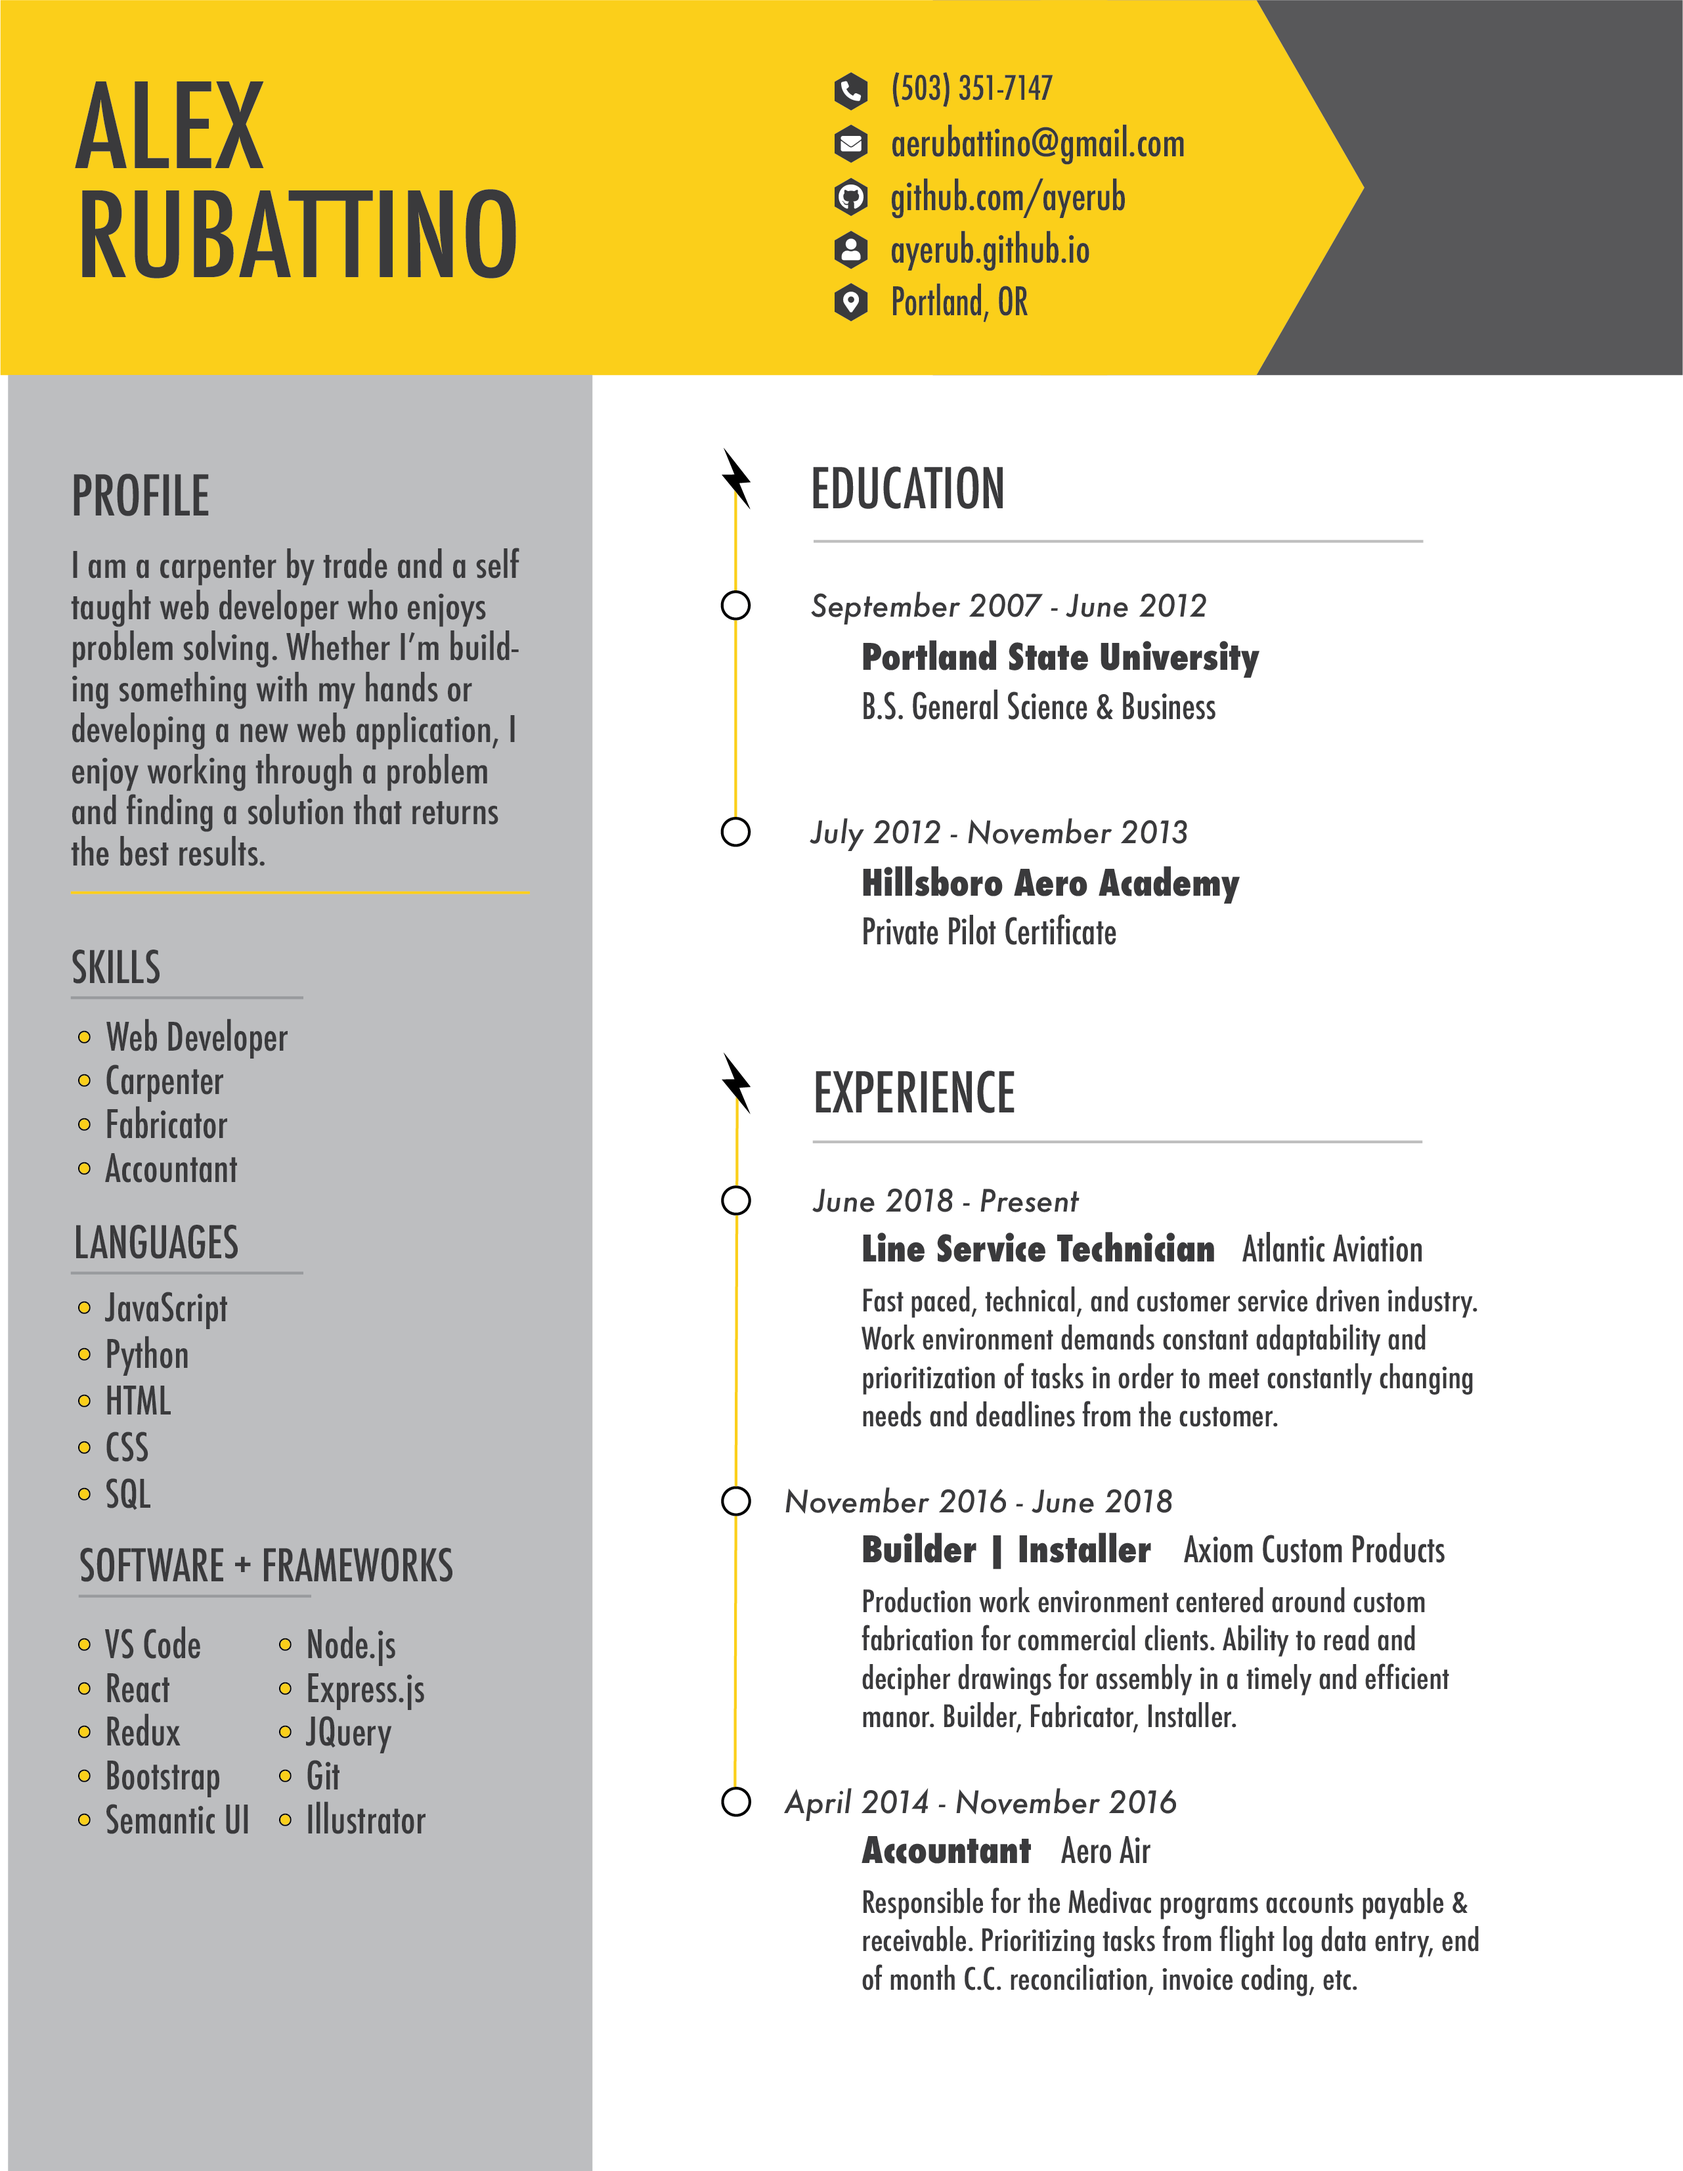
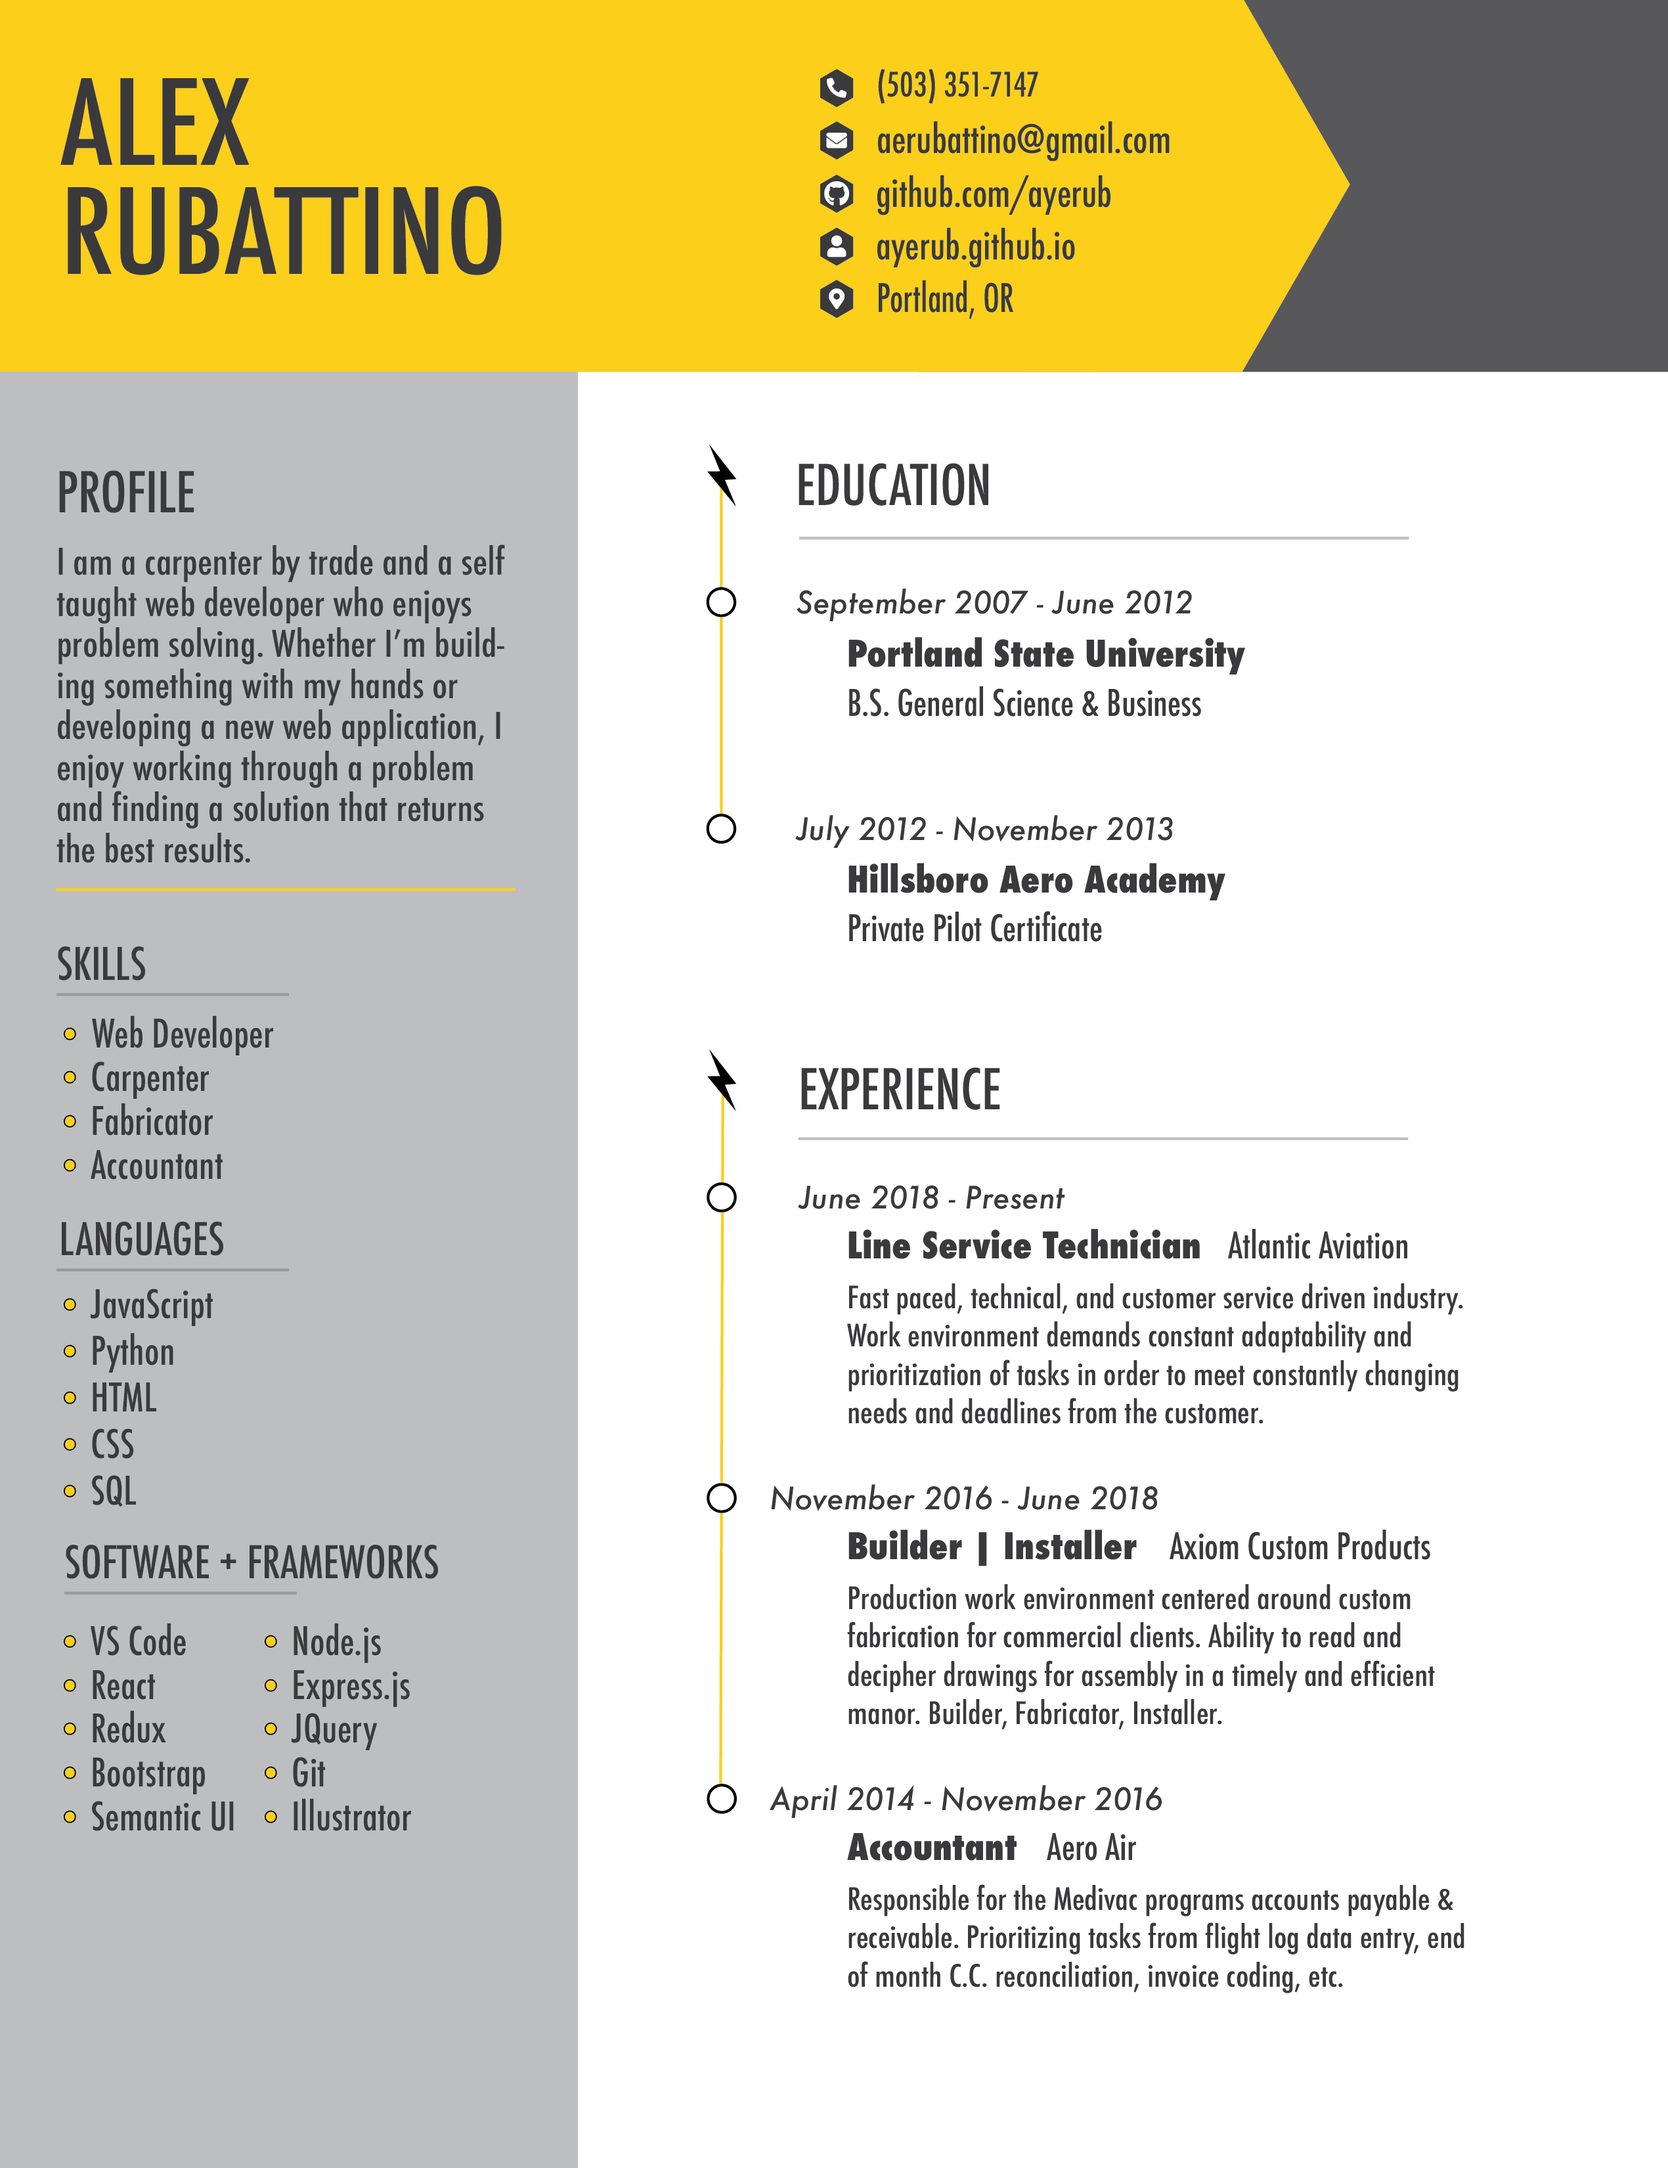
resume update (file fix)

diff --git a/index.html b/index.html
@@ -38,7 +38,7 @@
             <h1>hey! I'm <span class="third-color">Alex Rubattino</span>.</h1>
           </div>
           <div class="about-info">
-            <p>I'm a <span class="second-color">Web Developer</span> and <span class="second-color">Data Analyst</span>,</p>
+            <p>I'm a <span class="second-color">Web Developer</span> and <span class="second-color">Woodworker</span>,</p>
             <p>living in Portland, OR.</p>
           </div>
           <div class="bio">
@@ -102,7 +102,7 @@
             <p><a href="Alex_Resume.pdf" download="Alex_Resume.pdf"><i class="fas fa-download"></i>Download Resume</a></p>
           </div>
           <div class="res-img">
-            <img src="img/Alex_Resume_10_4_20.png">
+            <img src="img/Alex_Resume_12_12_20.png">
           </div>
           <div class="res-pdf">
             <p><a href="Alex_Resume.pdf" download="Alex_Resume.pdf"><i class="fas fa-download"></i>Download Resume</a></p>
